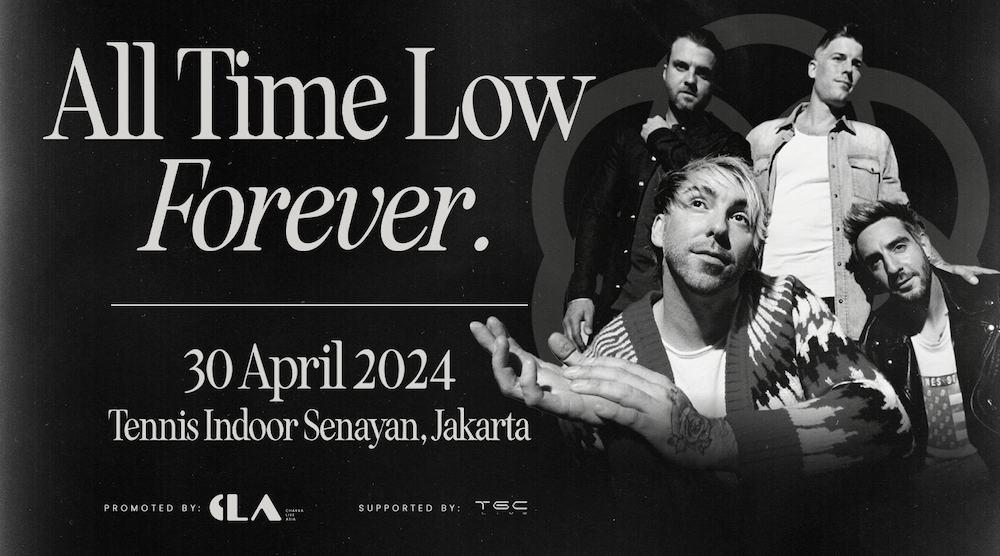
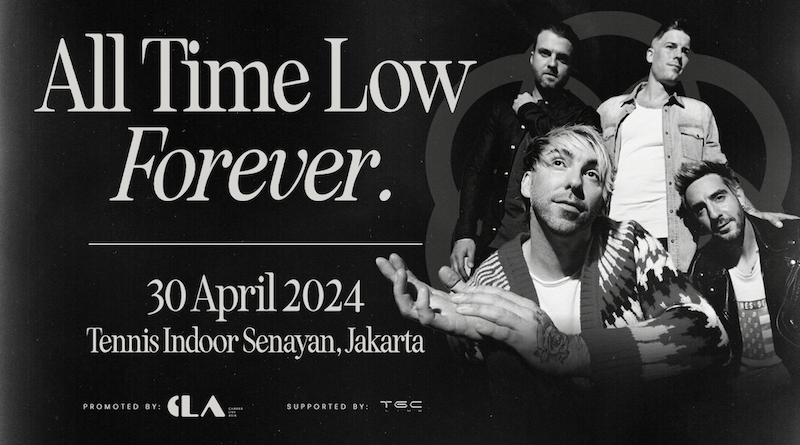
change image

diff --git a/index.html b/index.html
@@ -6,7 +6,7 @@
   <script async src="https://www.googletagmanager.com/gtag/js?id=G-8FXJSLG80G"></script>
   <script>
     window.dataLayer = window.dataLayer || [];
-    function gtag(){dataLayer.push(arguments);}
+    function gtag() { dataLayer.push(arguments); }
     gtag('js', new Date());
 
     gtag('config', 'G-8FXJSLG80G');
@@ -14,8 +14,12 @@
   <meta charset="utf-8">
   <title>All Time Low in Jakarta 2024</title>
   <meta content="width=device-width, initial-scale=1.0" name="viewport">
-  <meta content="All Time Low concert, Jakarta, ATL live performance, music event, Jakarta concert, pop punk band, All Time Low tour, live music, concert tickets, Jakarta entertainment, music show, concert experience" name="keywords">
-  <meta content="Discover everything you need to know about the All Time Low concert in Jakarta. Get your tickets, find the venue details, and immerse yourself in an unforgettable experience with one of the best pop-punk bands. Join us for a night of music and excitement!" name="description">
+  <meta
+    content="All Time Low concert, Jakarta, ATL live performance, music event, Jakarta concert, pop punk band, All Time Low tour, live music, concert tickets, Jakarta entertainment, music show, concert experience"
+    name="keywords">
+  <meta
+    content="Discover everything you need to know about the All Time Low concert in Jakarta. Get your tickets, find the venue details, and immerse yourself in an unforgettable experience with one of the best pop-punk bands. Join us for a night of music and excitement!"
+    name="description">
 
   <!-- Favicons -->
   <link href="img/clablack.png" rel="icon">
@@ -56,8 +60,10 @@
       <div id="logo" class="pull-left">
         <!-- Uncomment below if you prefer to use a text logo -->
         <!-- <h1><a href="#main">C<span>o</span>nf</a></h1>-->
-        <a href="#intro" class="scrollto"><img src="img/cla2.png" alt="All Time Low Concert in Jakarta 2024" title=""></a>
-        <a class="tgc" href="#intro" class="scrollto"><img src="img/tgc2.png" alt="All Time Low Concert in Jakarta 2024" title=""></a>
+        <a href="#intro" class="scrollto"><img src="img/cla2.png" alt="All Time Low Concert in Jakarta 2024"
+            title=""></a>
+        <a class="tgc" href="#intro" class="scrollto"><img src="img/tgc2.png" alt="All Time Low Concert in Jakarta 2024"
+            title=""></a>
       </div>
 
       <nav id="nav-menu-container">
@@ -100,7 +106,8 @@
             <h1 id="datetime"></h1>
             <div style="text-align: left;">
               <p>All Time Low have undeniably, albeit unassumingly, carved out their own corner of popular culture. The
-                multi-platinum Maryland quartet have toppled charts, sold out arenas worldwide, and served up a series of
+                multi-platinum Maryland quartet have toppled charts, sold out arenas worldwide, and served up a series
+                of
                 instantly irresistible anthems in the process.
                 Their catalog consists of five consecutive Top 10 albums on the Billboard Top 200 in addition to picking
                 up multi-platinum, platinum, and gold certifications.</p>
@@ -109,8 +116,10 @@
                 full-length LP, Wake Up, Sunshine. Following a #1 debut on the Top Rock Albums chart, it spawned the
                 biggest hit of the band’s career thus far, “Monsters” [feat. blackbear].</p>
               <p>It clinched #1 on the Billboard
-                Alternative Airplay Chart for an unprecedented 18 weeks, emerging as the longest charting song ever at the
-                Modern Rock format. In addition to going platinum, it notably garnered “Alternative Rock Song of the Year”
+                Alternative Airplay Chart for an unprecedented 18 weeks, emerging as the longest charting song ever at
+                the
+                Modern Rock format. In addition to going platinum, it notably garnered “Alternative Rock Song of the
+                Year”
                 at the 2022 iHeartRadio Music Awards, while superstar Demi Lovato teamed up with the group for the
                 Official Remix. Meanwhile, the mainstream came to them as they delivered show-stopping performances
                 everywhere from Bonnaroo and Firefly to The Late Late Show with James Corden, Jimmy Kimmel Live!, Ellen,
@@ -155,22 +164,19 @@
           <h2>Venue</h2>
         </div>
 
-        <div class="row justify-content-md-center">
-          <div class="col-lg-8 col-md-10">
-            <div class="hotel">
-              <div class="hotel-img">
-                <img src="img/venue.jpg" alt="Hotel 2" class="img-fluid">
-              </div>
-            </div>
-          </div>
+        <div class="row justify-content-center">
+          <img src="img/venue.jpg" alt="Venue" class="img-fluid mx-auto"> <!-- Added mx-auto for centering -->
         </div>
+
         <div class="text-center ticket">
-          <button type="button" class="btn" disabled style="margin: 15px 0;"><span style="color: rgb(22,22,22);">Buy Tickets</span></button>
+          <button type="button" class="btn" disabled style="margin: 15px 0;"><span style="color: rgb(22,22,22);">Buy
+              Tickets</span></button>
           <p>Tickets will be available at</p>
           <p>2 February 2024 at 9 a.m</p>
           <p>(GMT +7 / Jakarta Local Time)</p>
         </div>
       </div>
+
 
     </section>
     <hr class="solid">
@@ -190,8 +196,10 @@
           <div>
             <div cataloglayout="sections">
               <div style="text-align: left; margin-bottom: 30px;">
-                <i><p style="color: #FF7F7F;">
-                  TERMS AND CONDITIONS OF ALL TIME LOW LIVE IN JAKARTA 2024 </p></i>
+                <i>
+                  <p style="color: #FF7F7F;">
+                    TERMS AND CONDITIONS OF ALL TIME LOW LIVE IN JAKARTA 2024 </p>
+                </i>
               </div>
             </div>
           </div>
@@ -214,15 +222,15 @@
                   </li>
                   <li style="text-align:justify; margin-top: 5px;">
                     <span>
-                      Satu transaksi hanya dapat melakukan pembelian 1 (satu) kategori tiket dengan batasan maksimal 
-                      pembelian 5 (lima) tiket. Tidak ada batasan transaksi untuk 1 (satu) ID yang sama pada pembelian 
+                      Satu transaksi hanya dapat melakukan pembelian 1 (satu) kategori tiket dengan batasan maksimal
+                      pembelian 5 (lima) tiket. Tidak ada batasan transaksi untuk 1 (satu) ID yang sama pada pembelian
                       tiket konser <strong>All Time Low Live In Jakarta 2024</strong>.
                     </span>
                     <br>
                     <span style="color: #FF7F7F;">
                       <i>
-                        One transaction can only purchase 1 (one) ticket category with a maximum purchase limit of 
-                        5 (five) tickets. There is no transaction limit for the same ID in purchasing 
+                        One transaction can only purchase 1 (one) ticket category with a maximum purchase limit of
+                        5 (five) tickets. There is no transaction limit for the same ID in purchasing
                         <strong>All Time Low Live In Jakarta 2024</strong> concert tickets.
                       </i>
                     </span>
@@ -272,31 +280,43 @@
                   </li>
                   <li style="text-align:justify; margin-top: 5px;">
                     <span>
-                      Ada 4 (empat) kategori Tiket yaitu <strong>Festival</strong> tanpa kursi, serta <strong>Tribune A</strong>, <strong>Tribune B</strong>,
-                      dan <strong>Tribune Center</strong> merupakan kategori dengan kursi bernomor. Nomor kursi akan tersedia 7 (tujuh) hari sebelum hari konser. 
+                      Ada 4 (empat) kategori Tiket yaitu <strong>Festival</strong> tanpa kursi, serta <strong>Tribune
+                        A</strong>, <strong>Tribune B</strong>,
+                      dan <strong>Tribune Center</strong> merupakan kategori dengan kursi bernomor. Nomor kursi akan
+                      tersedia 7 (tujuh) hari sebelum hari konser.
                     </span>
                     <br>
                     <span style="color: #FF7F7F;">
                       <i>
-                        There are 4 (four) ticket categories for a <strong>Festival</strong> without seats. For <strong>Tribune A</strong>, <strong>Tribune B</strong>,
-                        and <strong>Tribune Center</strong> are numbered seating. Seat number(s) will be provided 7 (seven) days before the concert day.
+                        There are 4 (four) ticket categories for a <strong>Festival</strong> without seats. For
+                        <strong>Tribune A</strong>, <strong>Tribune B</strong>,
+                        and <strong>Tribune Center</strong> are numbered seating. Seat number(s) will be provided 7
+                        (seven) days before the concert day.
                       </i>
                     </span>
                   </li>
                   <li style="text-align:justify; margin-top: 5px;">
                     <span>
-                      Terdapat kuota dalam jumlah terbatas untuk <strong>tempat duduk yang dapat diakses dengan kursi roda pada kategori Festival.</strong> 
-                      Untuk informasi lebih lanjut dan pemesanan, silakan hubungi layanan pelanggan kami untuk memproses pemesanan Anda. 
-                      Untuk mendapatkan otorisasi pemesanan tempat duduk ini, Anda diwajibkan untuk melampirkan Surat Keterangan Dokter yang sah. 
-                      Penyelenggara Acara hanya menerima Surat Keterangan Dokter yang berasal dari institusi yang sah, baik  klinik maupun rumah sakit.
+                      Terdapat kuota dalam jumlah terbatas untuk <strong>tempat duduk yang dapat diakses dengan kursi
+                        roda pada kategori Festival.</strong>
+                      Untuk informasi lebih lanjut dan pemesanan, silakan hubungi layanan pelanggan kami untuk memproses
+                      pemesanan Anda.
+                      Untuk mendapatkan otorisasi pemesanan tempat duduk ini, Anda diwajibkan untuk melampirkan Surat
+                      Keterangan Dokter yang sah.
+                      Penyelenggara Acara hanya menerima Surat Keterangan Dokter yang berasal dari institusi yang sah,
+                      baik klinik maupun rumah sakit.
                     </span>
                     <br>
                     <span style="color: #FF7F7F;">
                       <i>
-                        There is a limited quota for <strong>wheelchair accessible seating at the Festival section.</strong> 
-                        For more information regarding wheelchair accessible seating and booking, please contact our customer service to 
-                        process your booking. To get your booking authorized, you must present your medical certificate as the proof of disability. 
-                        The Organizer only accepts a legitimate medical certificate from a legitimate institution and physician.
+                        There is a limited quota for <strong>wheelchair accessible seating at the Festival
+                          section.</strong>
+                        For more information regarding wheelchair accessible seating and booking, please contact our
+                        customer service to
+                        process your booking. To get your booking authorized, you must present your medical certificate
+                        as the proof of disability.
+                        The Organizer only accepts a legitimate medical certificate from a legitimate institution and
+                        physician.
                       </i>
                     </span>
                   </li>
@@ -313,25 +333,29 @@
                   </li>
                   <li style="text-align:justify; margin-top: 5px;">
                     <span>
-                      Pemegang Tiket wajib menempati tempat duduk atau posisi yang telah ditentukan oleh pihak Penyelenggara sesuai 
+                      Pemegang Tiket wajib menempati tempat duduk atau posisi yang telah ditentukan oleh pihak
+                      Penyelenggara sesuai
                       dengan kategori Tiket yang dibeli.
                     </span>
                     <br>
                     <span style="color: #FF7F7F;">
                       <i>
-                        The Ticket Holder must occupy the seat or position that has been assigned by the Organizer according to the category 
+                        The Ticket Holder must occupy the seat or position that has been assigned by the Organizer
+                        according to the category
                         of the ticket purchased.
                       </i>
                     </span>
                   </li>
                   <li style="text-align:justify; margin-top: 5px;">
                     <span>
-                      Pemegang Tiket akan diberikan e-tiket setelah pembayaran. E-tiket dilarang keras untuk diposting di media sosial demi keamanan tiket Anda.
+                      Pemegang Tiket akan diberikan e-tiket setelah pembayaran. E-tiket dilarang keras untuk diposting
+                      di media sosial demi keamanan tiket Anda.
                     </span>
                     <br>
                     <span style="color: #FF7F7F;">
                       <i>
-                        Ticket Holders will be given out e-tickets after payment. E-ticket is strictly forbidden to be posted on social media for the safety of your ticket.
+                        Ticket Holders will be given out e-tickets after payment. E-ticket is strictly forbidden to be
+                        posted on social media for the safety of your ticket.
                       </i>
                     </span>
                   </li>
@@ -779,8 +803,8 @@
             best International concert in
             Asia, especially Indonesia. Supported by the best team, we will deliver spectacular experience for the
             audience as our top priority.</h5>
-            <div class="col-lg-2 col-md-2 mx-auto text-center">
-              <img src="img/cla2.png" alt="All Time Low Concert in Jakarta 2024" title="">
+          <div class="col-lg-2 col-md-2 mx-auto text-center">
+            <img src="img/cla2.png" alt="All Time Low Concert in Jakarta 2024" title="">
           </div>
         </div>
       </div>
@@ -903,7 +927,7 @@
         <strong> &copy; 2024 CHAKRA LIVE ASIA</strong>. All Rights Reserved
       </div>
       <div class="credits" style="color:black">
-          Created By: Kemas & Basith
+        Created By: Kemas & Basith
       </div>
     </div>
   </footer><!-- #footer -->
@@ -930,7 +954,7 @@
     // Get current date and time
     var now = new Date();
     var datetime = now.toLocaleString();
-  
+
     // Insert date and time into HTML
     document.getElementById("datetime").innerHTML = datetime;
   </script>

diff --git a/css/style.css b/css/style.css
@@ -489,7 +489,7 @@ body.mobile-nav-active #mobile-nav-toggle {
   width: 100%;
   height: 100vh;
   background: url(../img/intro-bg.png) top center;
-  background-size: contain;
+  background-size: cover;
   background-repeat: no-repeat;
   overflow: hidden;
   position: relative;
